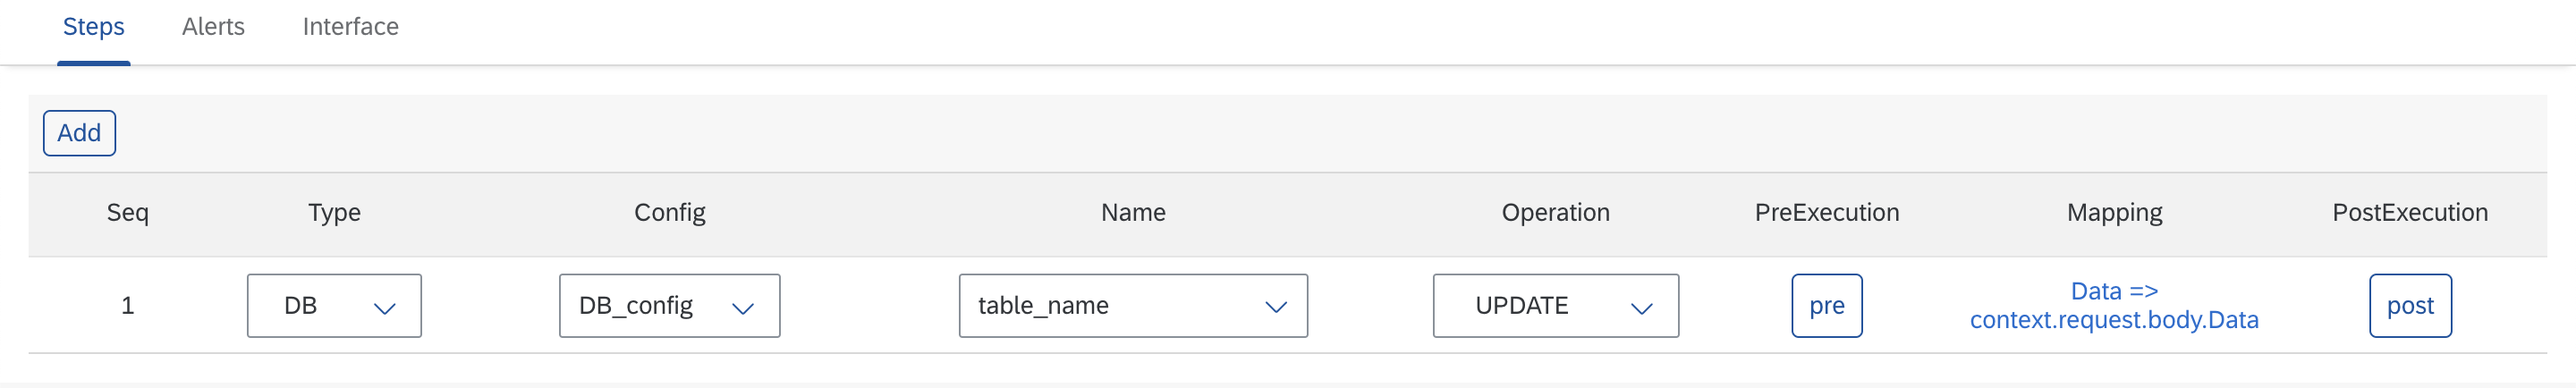
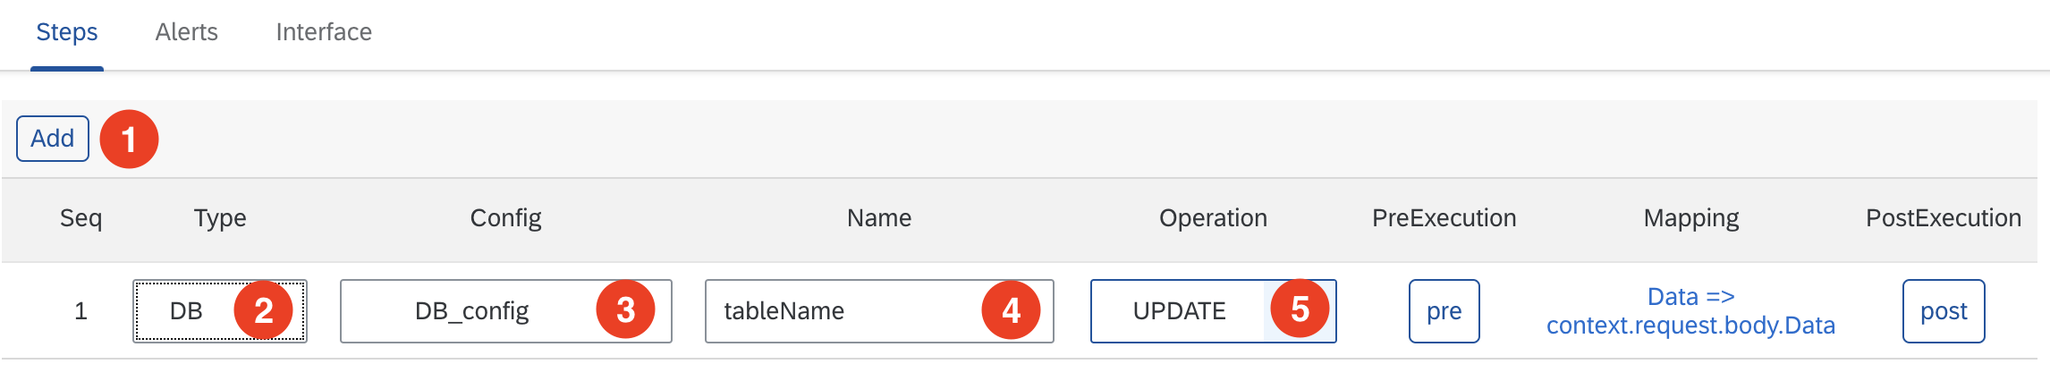
feat: 배포 카테고리 추가

diff --git a/docs/eai/functions/deploy.md b/docs/eai/functions/deploy.md
@@ -1,0 +1,23 @@
+# Flow, Interface, Endpoint 배포
+
+Flow, Interface, Endpoint는 생성 후 배포 작업을 완료해야 실제로 사용할 수 있습니다. 배포는 버전관리를 통해서 가능합니다. 현재 사용중인 contents를 무분별하게 변경하는 것을 방지하기 위해, 수정후 배포까지 완료되어야 contents가 정상적으로 변경됩니다.
+
+## Version 생성
+contents를 배포하기 위해서는 특정 시점의 정보가 담겨있는 버전이 필요합니다. 간략한 버전정보 입력과 클릭 몇번이면 손쉽게 버전을 생성할 수 있습니다. 
+
+1. List 페이지나 상세화면에서 "Versions" 버튼을 클릭합니다.
+2. "Create Version" 버튼을 클릭합니다.
+   ![Image](assets/eai_config_create_version.png)
+3. 해당 Version의 간략한 정보를 "Description"에 입력합니다.
+  ![Image](assets/eai_config_description.png)
+5. "확인" 버튼을 클릭합니다.
+
+## Version 배포
+생성된 Flow, Interface, Endpoint를 사용하기 위해서는 배포작업이 이루어져야 합니다. 배포는 현재 사용중인 시스템뿐만 아니라
+다른 시스템에도 적용할 수 있습니다. 배포하고자 하는 시스템을 선택 후 "Deploy" 버튼만 클릭하면 됩니다.
+
+1. Deploy 컬럼 "SelectBox"❶에서 배포하고자 하는 시스템을 선택합니다. 다중 선택이 가능합니다.
+   ![Image](assets/eai_deploy.png)
+2. "Deploy"❷ 버튼을 클릭합니다. 
+3. 정상적으로 완료시 "Deployed" 체크박스가 체크 상태로 변경됩니다.
+   ![Image](assets/eai_deploy_fin.png)

diff --git a/docs/eai/functions/add_db_step.md b/docs/eai/functions/add_db_step.md
@@ -2,12 +2,12 @@
 
 DB와 관련된 작업을 진행하는 Step입니다.
 
-1. "Steps" tab에서 "Add" 버튼을 클릭합니다.
-2. "Type" 컬럼에서 "DB"를 선택합니다.
-3. "Config" 컬럼에서 접근할 DB의 접속설정을 선택합니다.
-4. "Name" 컬럼에는 Table 명을 입력합니다.
-5. "Opreation" 컬럼에서 DB에서 수행할 작업을 선택합니다. 
-   ![Image](assets/eai_add_db_step.png)
+1. "Steps" tab에서 "Add"➊ 버튼을 클릭합니다.
+     ![Image](assets/eai_add_db_step.png)
+2. "Type"➋ 컬럼에서 "DB"를 선택합니다.
+3. "Config"➌ 컬럼에서 접근할 DB의 접속설정을 선택합니다.
+4. "Name"➍ 컬럼에는 Table 명을 입력합니다.
+5. "Opreation"➎ 컬럼에서 DB에서 수행할 작업을 선택합니다. 
 6. "PreExecution"에는 현재 Step이 실행하기 전에 필요한 함수를 실행하기 위한 소스코드를 입력할 수 있습니다.
 7. "Mapping" 컬럼의 링크를 클릭하면 Step의 Input, Output에 변수 경로를 지정할수 있습니다.
 
